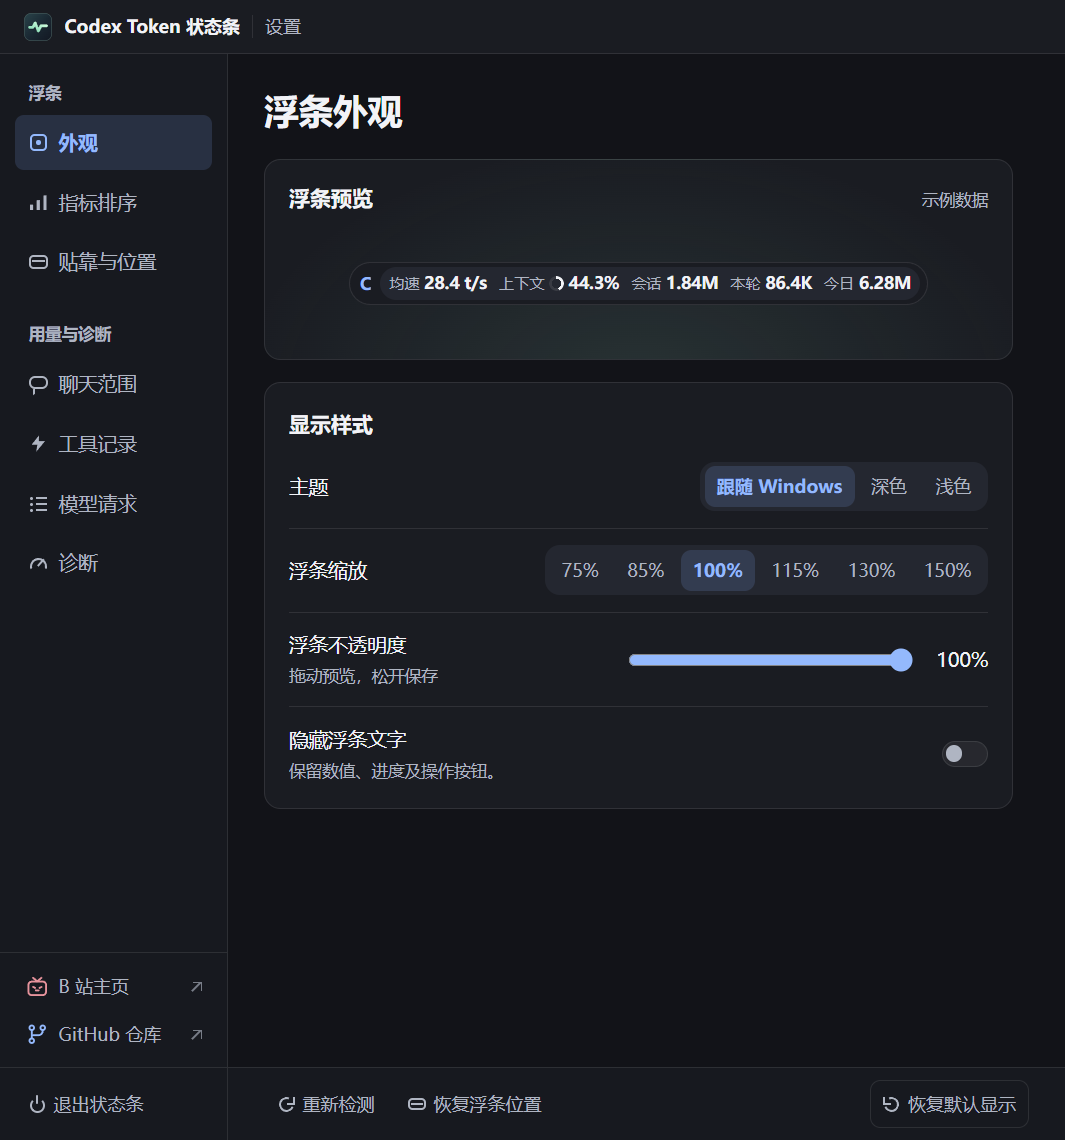
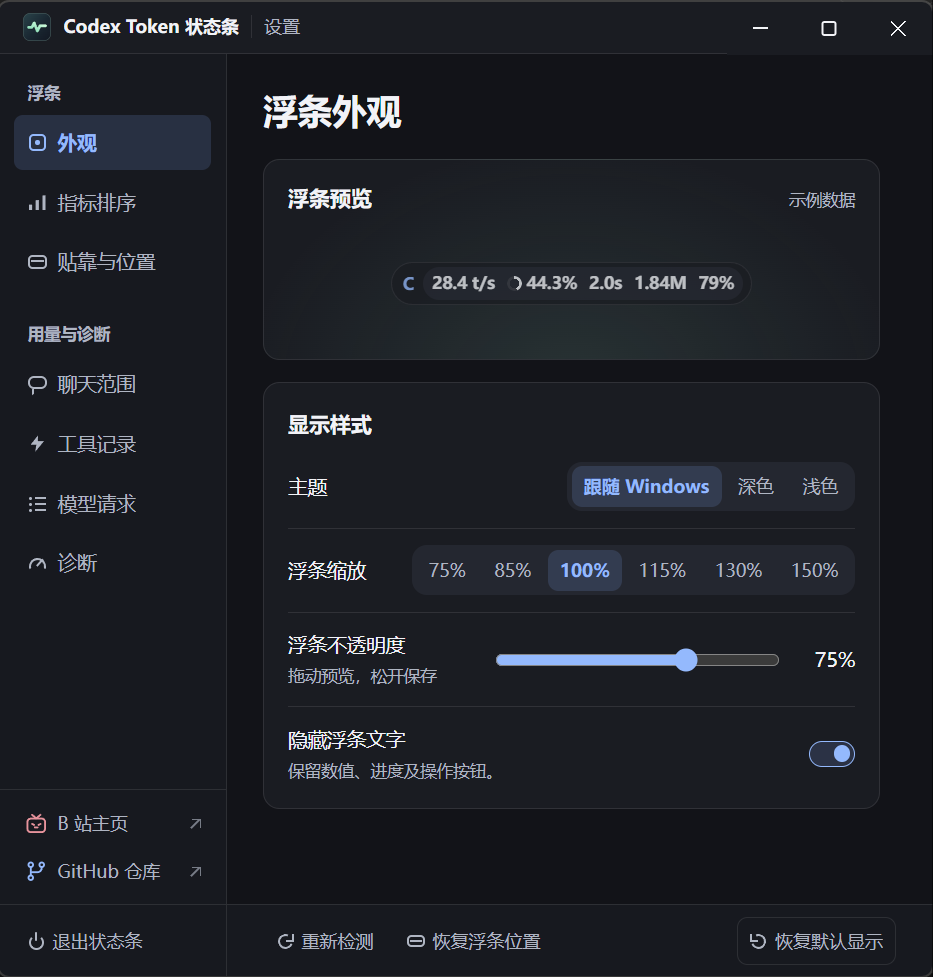
Feature the full Appearance settings screenshot in the README

diff --git a/README.md b/README.md
@@ -1,4 +1,4 @@
-<p align="center"><img src="assets/icons/pulse.png" width="64" alt=""></p>
+<p align="center"><img src="assets/icons/pulse.png" width="48" alt=""></p>
 <h1 align="center">Codex Token 状态条</h1>
 <p align="center">在 Codex 桌面版窗口上查看 Token 用量、上下文和账号额度。</p>
 <p align="center"><strong><a href="https://github.com/3ALLBUY14/codex-token-statusbar/releases/latest">下载 Windows x64 安装包</a></strong></p>
@@ -6,19 +6,18 @@
 
 ## 快速开始
 
-1. **安装。** 解压后双击「安装.cmd」，点击「安装并启动」。便携使用可直接运行 app 目录里的 **CodexTokenStatusbar.exe**。
-2. **打开 Codex 桌面版。** 进入聊天后，浮条默认出现在窗口右上方。点击 **C** 展开明细，点击 **⚙** 打开设置。
+1. 解压安装包，双击 **安装.cmd**，点击「安装并启动」。
+2. 打开 Codex 桌面版并进入聊天。点击浮条的 <kbd>C</kbd> 查看明细，点击 <kbd>⚙</kbd> 打开设置。
+
+便携使用可直接运行 app 目录里的 **CodexTokenStatusbar.exe**。
 
 ## 界面与功能
 
-<p align="center">
-  <a href="docs/images/details.png"><img src="docs/images/details.png" width="350" alt="总览：用量指标、上下文分段和账号额度"></a>
-  &emsp;
-  <a href="docs/images/settings.png"><img src="docs/images/settings.png" width="307" alt="设置：分组导航、浮条预览和外观调整"></a>
-</p>
-<p align="center"><sub>总览与设置 · 演示数据 · 点击查看原图</sub></p>
+截图使用演示数据，点击可查看原图。
 
 ### 明细面板
+
+<p align="center"><a href="docs/images/details.png"><img src="docs/images/details.png" width="480" alt="明细总览，用量指标、上下文分段和账号额度"></a></p>
 
 | 分页 | 内容 |
 | --- | --- |
@@ -48,6 +47,8 @@
 </details>
 
 ### 设置
+
+<p align="center"><a href="docs/images/settings.png"><img src="docs/images/settings.png" width="480" alt="浮条外观设置，包含分组侧栏、实时预览、主题、缩放、不透明度和隐藏文字"></a></p>
 
 | 页面 | 操作 |
 | --- | --- |
